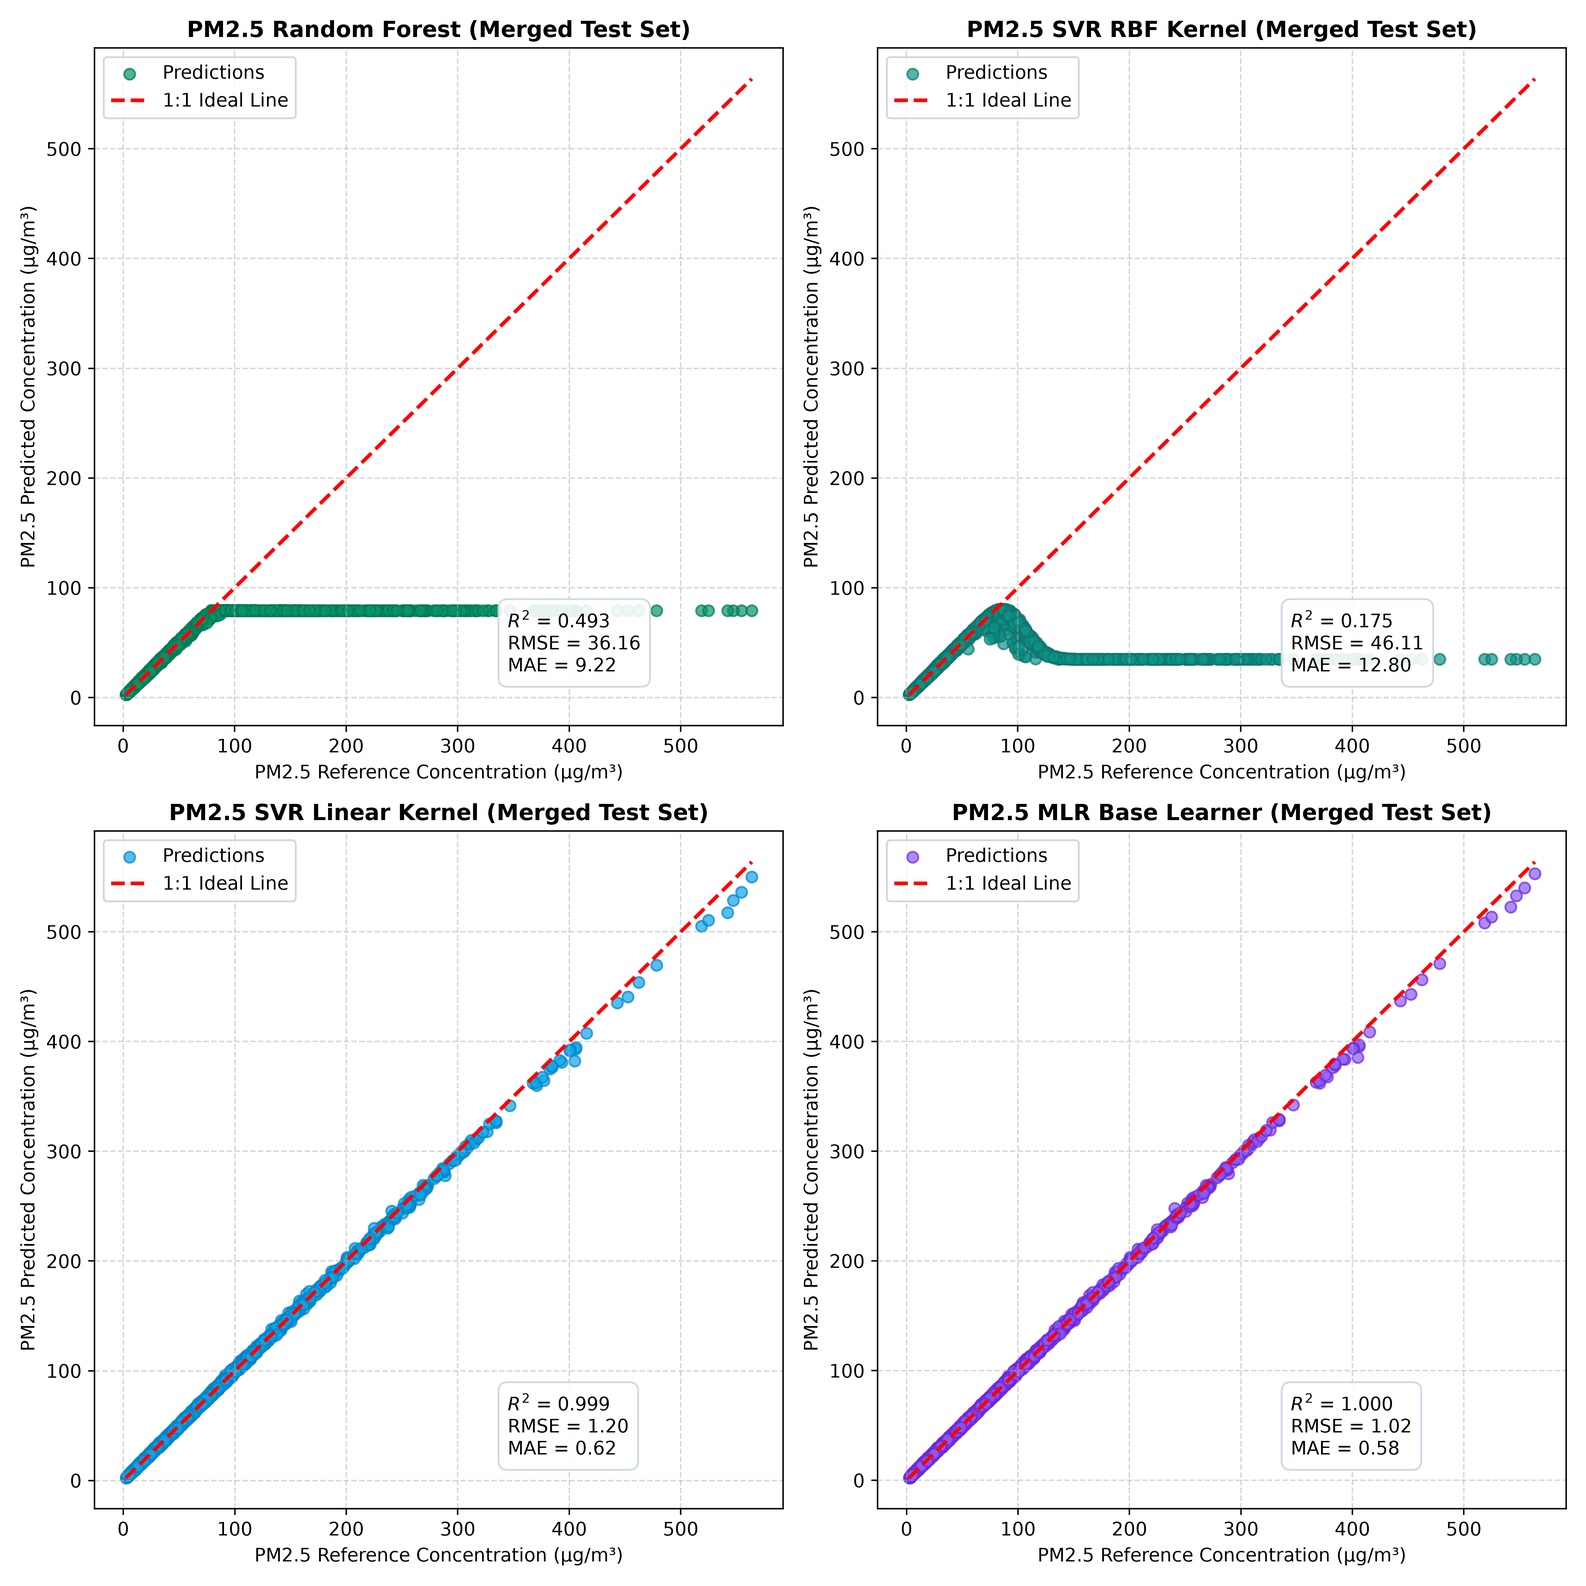
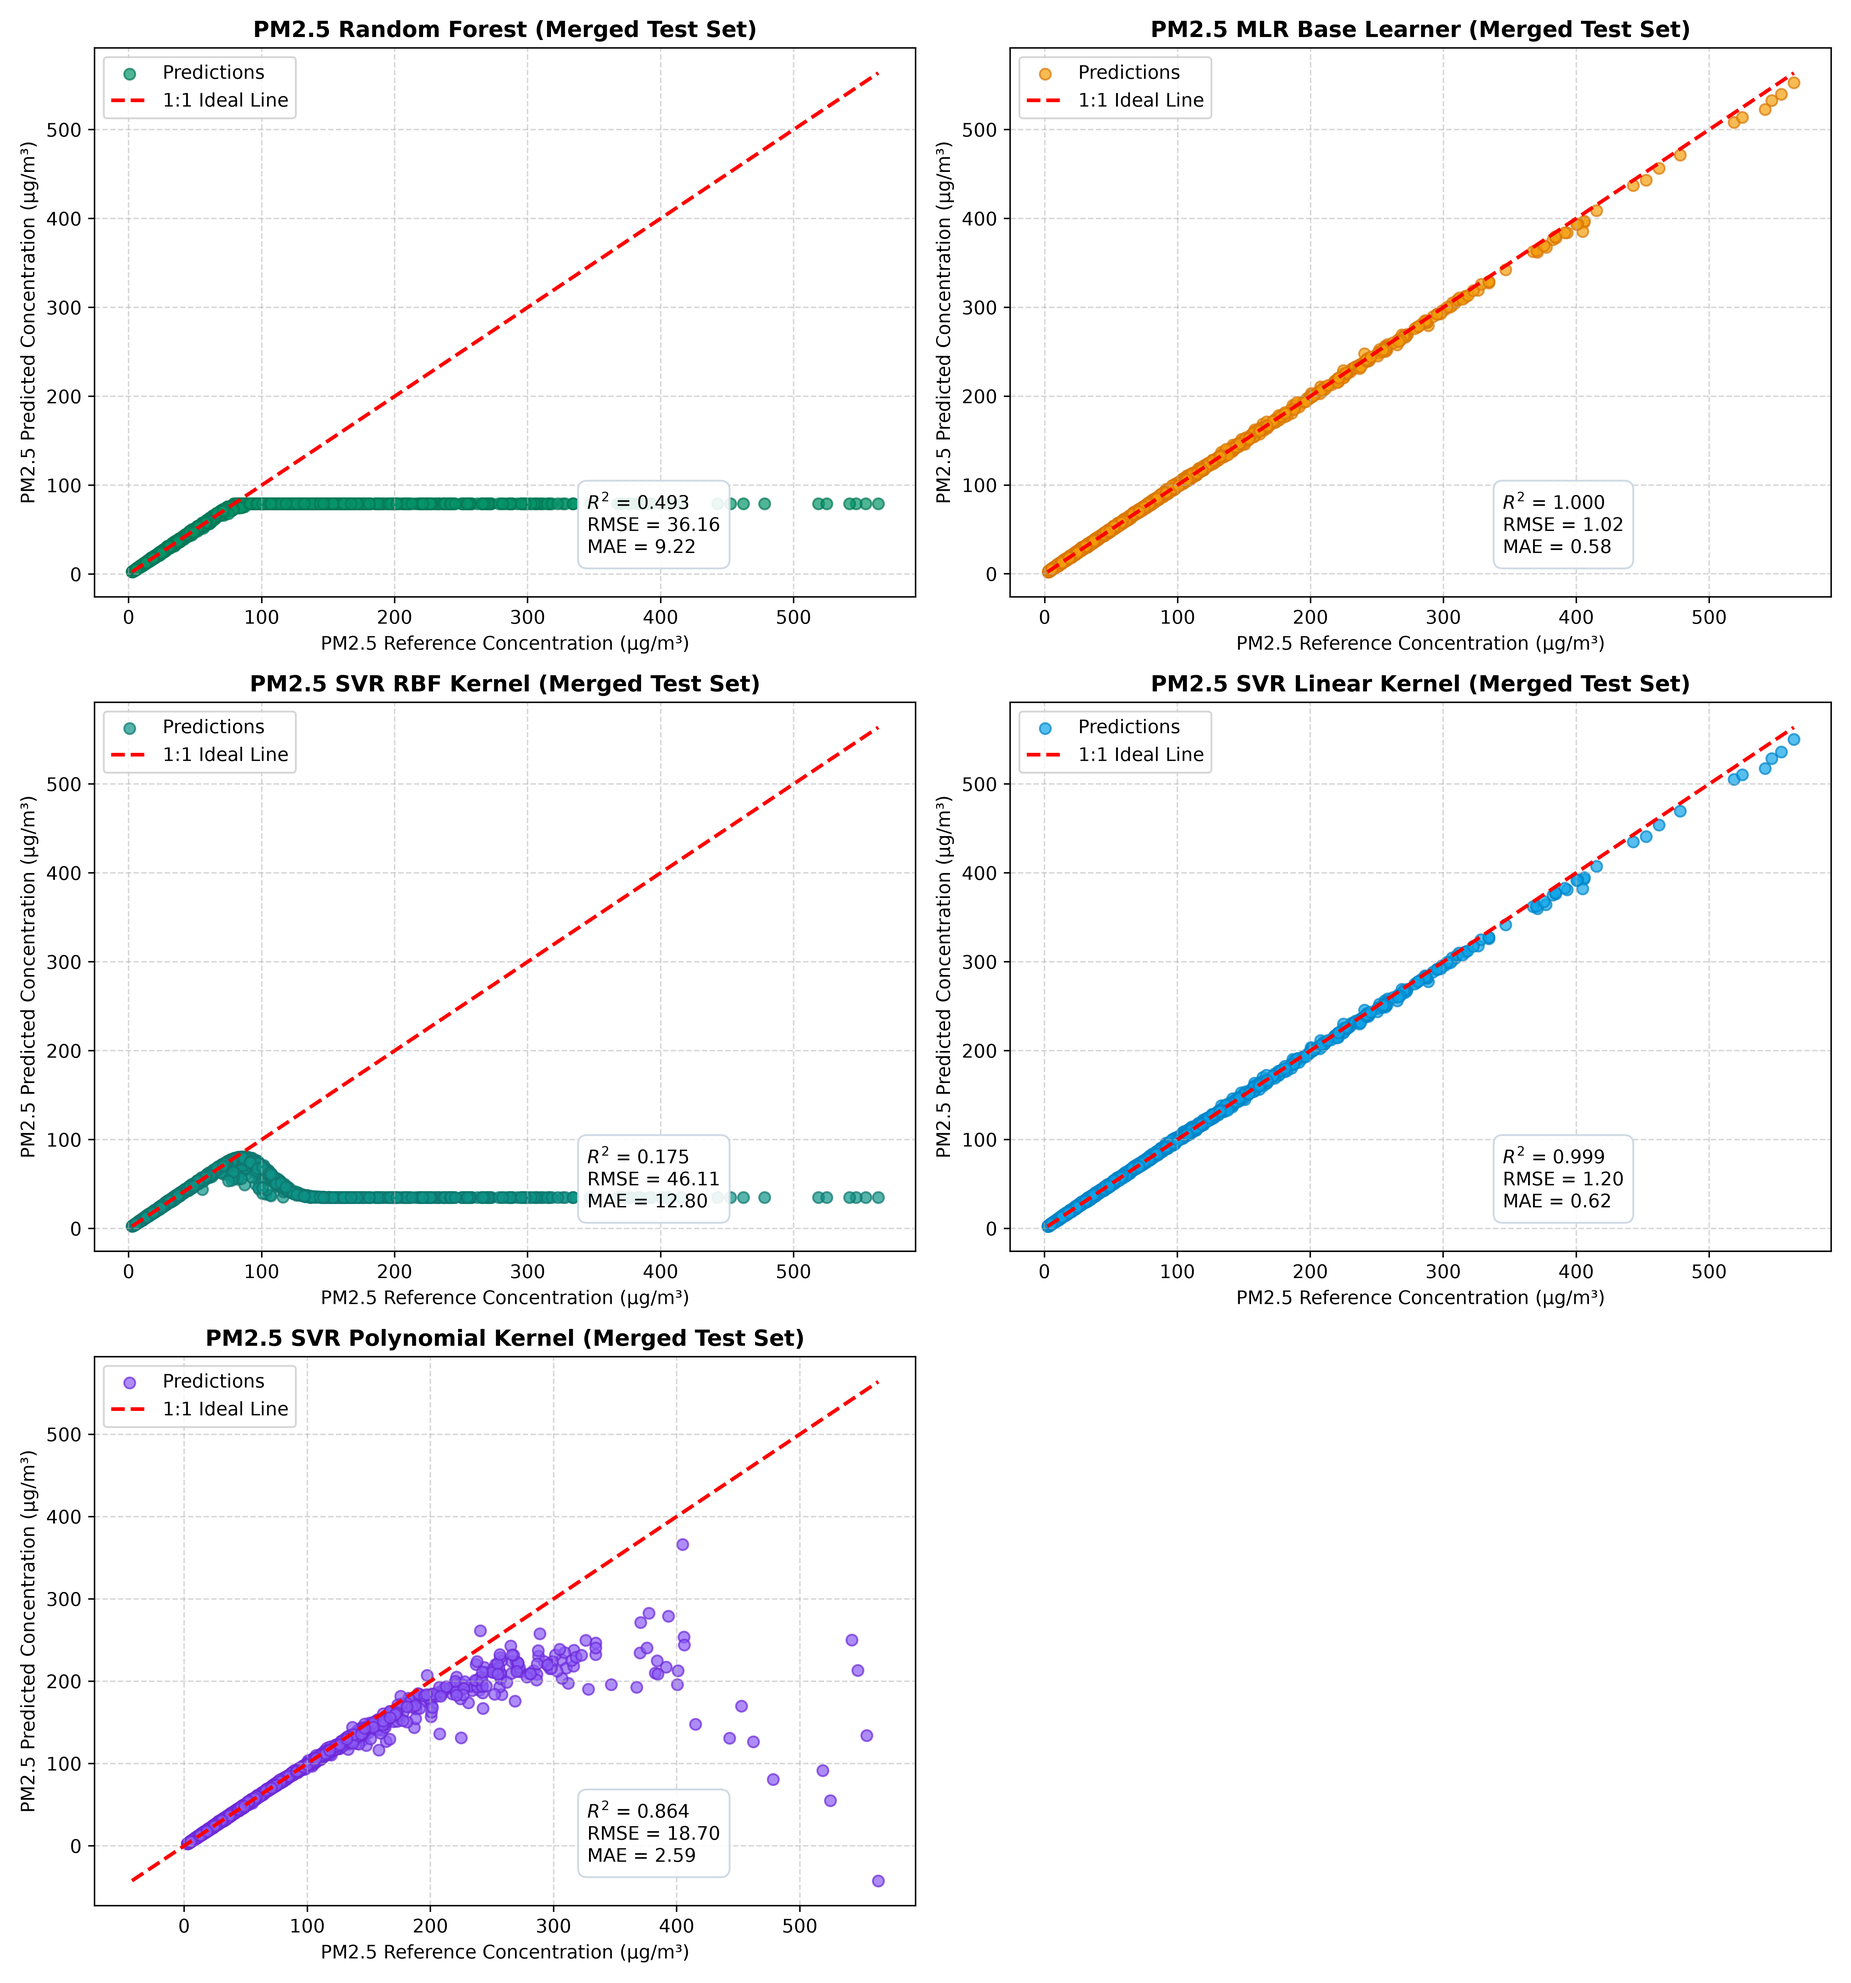
merged poly
added poly to merged test

diff --git a/ML Training/Training Models/Base Full Set Validation PM2.5.py b/ML Training/Training Models/Base Full Set Validation PM2.5.py
@@ -19,6 +19,7 @@ rf_model            = joblib.load('Output Models/PM2.5_Base_rf_model.joblib')
 mlr_model           = joblib.load('Output Models/PM2.5_Base_MLR_model.joblib')
 svr_model_RBF       = joblib.load('Output Models/PM2.5_Base_svr_rbf_model.joblib')
 svr_model_LINEAR    = joblib.load('Output Models/PM2.5_Base_svr_linear_model.joblib')
+svr_model_POLY      = joblib.load('Output Models/PM2.5_Base_svr_poly_model.joblib')
 scaler_X            = joblib.load('Output Models/PM2.5_Base_svr_rbf_scaler_model.joblib') # linear and rbf models use the same scaler, so we can load either one
 #ensemble_model      = joblib.load('Output Models/PM2.5_Ensemble_model.joblib')
 
@@ -52,6 +53,7 @@ y_pred_mlr          = mlr_model.predict(X_merged_raw)
 y_pred_rf           = rf_model.predict(X_merged_raw)
 y_pred_svr_rbf      = svr_model_RBF.predict(X_merged_scaled)
 y_pred_svr_linear   = svr_model_LINEAR.predict(X_merged_scaled)
+y_pred_svr_poly     = svr_model_POLY.predict(X_merged_scaled)
 
 # 8. Compute Performance Metrics
 # Base Learners (Tested on Merged Dataset)
@@ -70,6 +72,11 @@ metrics = {
         'mae': mean_absolute_error(y_merged_test, y_pred_svr_linear),
         'rmse': root_mean_squared_error(y_merged_test, y_pred_svr_linear),
         'r2': r2_score(y_merged_test, y_pred_svr_linear),
+    },
+    'SVR_Poly': {
+        'mae': mean_absolute_error(y_merged_test, y_pred_svr_poly),
+        'rmse': root_mean_squared_error(y_merged_test, y_pred_svr_poly),
+        'r2': r2_score(y_merged_test, y_pred_svr_poly),
     },
     'MLR': {
         'mae': mean_absolute_error(y_merged_test, y_pred_mlr),
@@ -95,13 +102,22 @@ print(
     f" R²={metrics['SVR_Linear']['r2']:.4f}"
 )
 print(
+    f"SVR Polynomial (Merged Set)  : MAE={metrics['SVR_Poly']['mae']:.4f} |"
+    f" RMSE={metrics['SVR_Poly']['rmse']:.4f} |"
+    f" R²={metrics['SVR_Poly']['r2']:.4f}"
+)
+print(
     f"MLR (Merged Set) : MAE={metrics['MLR']['mae']:.4f} |"
-    f" RMSE={metrics['MLR']['rmse']:.4f} | R²={metrics['MLR']['r2']:.4f}"
+    f" RMSE={metrics['MLR']['rmse']:.4f} |"
+    f" R²={metrics['MLR']['r2']:.4f}"
 )
 
 # 9. Plot 4 Scatterplots in a Single 2x2 Image
-fig, axes = plt.subplots(2, 2, figsize=(12, 12))
-((ax1, ax2), (ax3, ax4)) = axes
+fig, axes = plt.subplots(3, 2, figsize=(14, 15))
+((ax1, ax2), (ax3, ax4), (ax5, ax6)) = axes
+
+# Remove the unused 6th axis frame
+fig.delaxes(ax6)
 
 plot_configs = [
     {
@@ -116,6 +132,15 @@ plot_configs = [
     {
         "ax": ax2,
         "y_true": y_merged_test,
+        "y_pred": y_pred_mlr,
+        "title": "PM2.5 MLR Base Learner (Merged Test Set)",
+        "color": "#F59E0B",
+        "edge": "#D97706",
+        "m": metrics["MLR"],
+    },
+    {
+        "ax": ax3,
+        "y_true": y_merged_test,
         "y_pred": y_pred_svr_rbf,
         "title": "PM2.5 SVR RBF Kernel (Merged Test Set)",
         "color": "#0D9488",
@@ -123,7 +148,7 @@ plot_configs = [
         "m": metrics["SVR_RBF"],
     },
     {
-        "ax": ax3,
+        "ax": ax4,
         "y_true": y_merged_test,
         "y_pred": y_pred_svr_linear,
         "title": "PM2.5 SVR Linear Kernel (Merged Test Set)",
@@ -132,13 +157,13 @@ plot_configs = [
         "m": metrics["SVR_Linear"],
     },
     {
-        "ax": ax4,
-        "y_true": y_merged_test,  # Fixed: Match y_pred_mlr dataset
-        "y_pred": y_pred_mlr,
-        "title": "PM2.5 MLR Base Learner (Merged Test Set)",
+        "ax": ax5,
+        "y_true": y_merged_test,  # Fixed: Match y_pred_svr_poly dataset
+        "y_pred": y_pred_svr_poly,
+        "title": "PM2.5 SVR Polynomial Kernel (Merged Test Set)",
         "color": "#8B5CF6",
         "edge": "#6D28D9",
-        "m": metrics["MLR"],
+        "m": metrics["SVR_Poly"],
     },
 ]
 

diff --git a/ML Training/Training Models/Base Full Set Validation PM10.py b/ML Training/Training Models/Base Full Set Validation PM10.py
@@ -19,6 +19,7 @@ rf_model            = joblib.load('Output Models/PM10_Base_rf_model.joblib')
 mlr_model           = joblib.load('Output Models/PM10_Base_MLR_model.joblib')
 svr_model_RBF       = joblib.load('Output Models/PM10_Base_svr_rbf_model.joblib')
 svr_model_LINEAR    = joblib.load('Output Models/PM10_Base_svr_linear_model.joblib')
+svr_model_POLY      = joblib.load('Output Models/PM10_Base_svr_poly_model.joblib')
 scaler_X            = joblib.load('Output Models/PM10_Base_svr_rbf_scaler_model.joblib') # linear and rbf models use the same scaler, so we can load either one
 #ensemble_model      = joblib.load('Output Models/PM10_Ensemble_model.joblib')
 
@@ -52,6 +53,7 @@ y_pred_mlr          = mlr_model.predict(X_merged_raw)
 y_pred_rf           = rf_model.predict(X_merged_raw)
 y_pred_svr_rbf      = svr_model_RBF.predict(X_merged_scaled)
 y_pred_svr_linear   = svr_model_LINEAR.predict(X_merged_scaled)
+y_pred_svr_poly     = svr_model_POLY.predict(X_merged_scaled)
 
 # 8. Compute Performance Metrics
 # Base Learners (Tested on Merged Dataset)
@@ -70,6 +72,11 @@ metrics = {
         'mae': mean_absolute_error(y_merged_test, y_pred_svr_linear),
         'rmse': root_mean_squared_error(y_merged_test, y_pred_svr_linear),
         'r2': r2_score(y_merged_test, y_pred_svr_linear),
+    },
+    'SVR_Poly': {
+        'mae': mean_absolute_error(y_merged_test, y_pred_svr_poly),
+        'rmse': root_mean_squared_error(y_merged_test, y_pred_svr_poly),
+        'r2': r2_score(y_merged_test, y_pred_svr_poly),
     },
     'MLR': {
         'mae': mean_absolute_error(y_merged_test, y_pred_mlr),
@@ -95,13 +102,20 @@ print(
     f" R²={metrics['SVR_Linear']['r2']:.4f}"
 )
 print(
+    f"SVR Polynomial (Merged Set)  : MAE={metrics['SVR_Poly']['mae']:.4f} |"
+    f" RMSE={metrics['SVR_Poly']['rmse']:.4f} |"
+    f" R²={metrics['SVR_Poly']['r2']:.4f}"
+)
+print(
     f"MLR (Merged Set) : MAE={metrics['MLR']['mae']:.4f} |"
     f" RMSE={metrics['MLR']['rmse']:.4f} | R²={metrics['MLR']['r2']:.4f}"
 )
 
 # 9. Plot 4 Scatterplots in a Single 2x2 Image
-fig, axes = plt.subplots(2, 2, figsize=(12, 12))
-((ax1, ax2), (ax3, ax4)) = axes
+fig, axes = plt.subplots(3, 2, figsize=(14, 15))
+((ax1, ax2), (ax3, ax4), (ax5, ax6)) = axes
+
+fig.delaxes(ax6)  # Remove the unused 6th axis frame
 
 plot_configs = [
     {
@@ -116,6 +130,15 @@ plot_configs = [
     {
         "ax": ax2,
         "y_true": y_merged_test,
+        "y_pred": y_pred_mlr,
+        "title": "PM10 MLR Base Learner (Merged Test Set)",
+        "color": "#F59E0B",
+        "edge": "#D97706",
+        "m": metrics["MLR"],
+    },
+    {
+        "ax": ax3,
+        "y_true": y_merged_test,
         "y_pred": y_pred_svr_rbf,
         "title": "PM10 SVR RBF Kernel (Merged Test Set)",
         "color": "#0D9488",
@@ -123,7 +146,7 @@ plot_configs = [
         "m": metrics["SVR_RBF"],
     },
     {
-        "ax": ax3,
+        "ax": ax4,
         "y_true": y_merged_test,
         "y_pred": y_pred_svr_linear,
         "title": "PM10 SVR Linear Kernel (Merged Test Set)",
@@ -132,13 +155,13 @@ plot_configs = [
         "m": metrics["SVR_Linear"],
     },
     {
-        "ax": ax4,
-        "y_true": y_merged_test,  # Fixed: Match y_pred_mlr dataset
-        "y_pred": y_pred_mlr,
-        "title": "PM10 MLR Base Learner (Merged Test Set)",
+        "ax": ax5,
+        "y_true": y_merged_test,  
+        "y_pred": y_pred_svr_poly,
+        "title": "PM10 SVR Polynomial Kernel (Merged Test Set)",
         "color": "#8B5CF6",
         "edge": "#6D28D9",
-        "m": metrics["MLR"],
+        "m": metrics["SVR_Poly"],
     },
 ]
 
